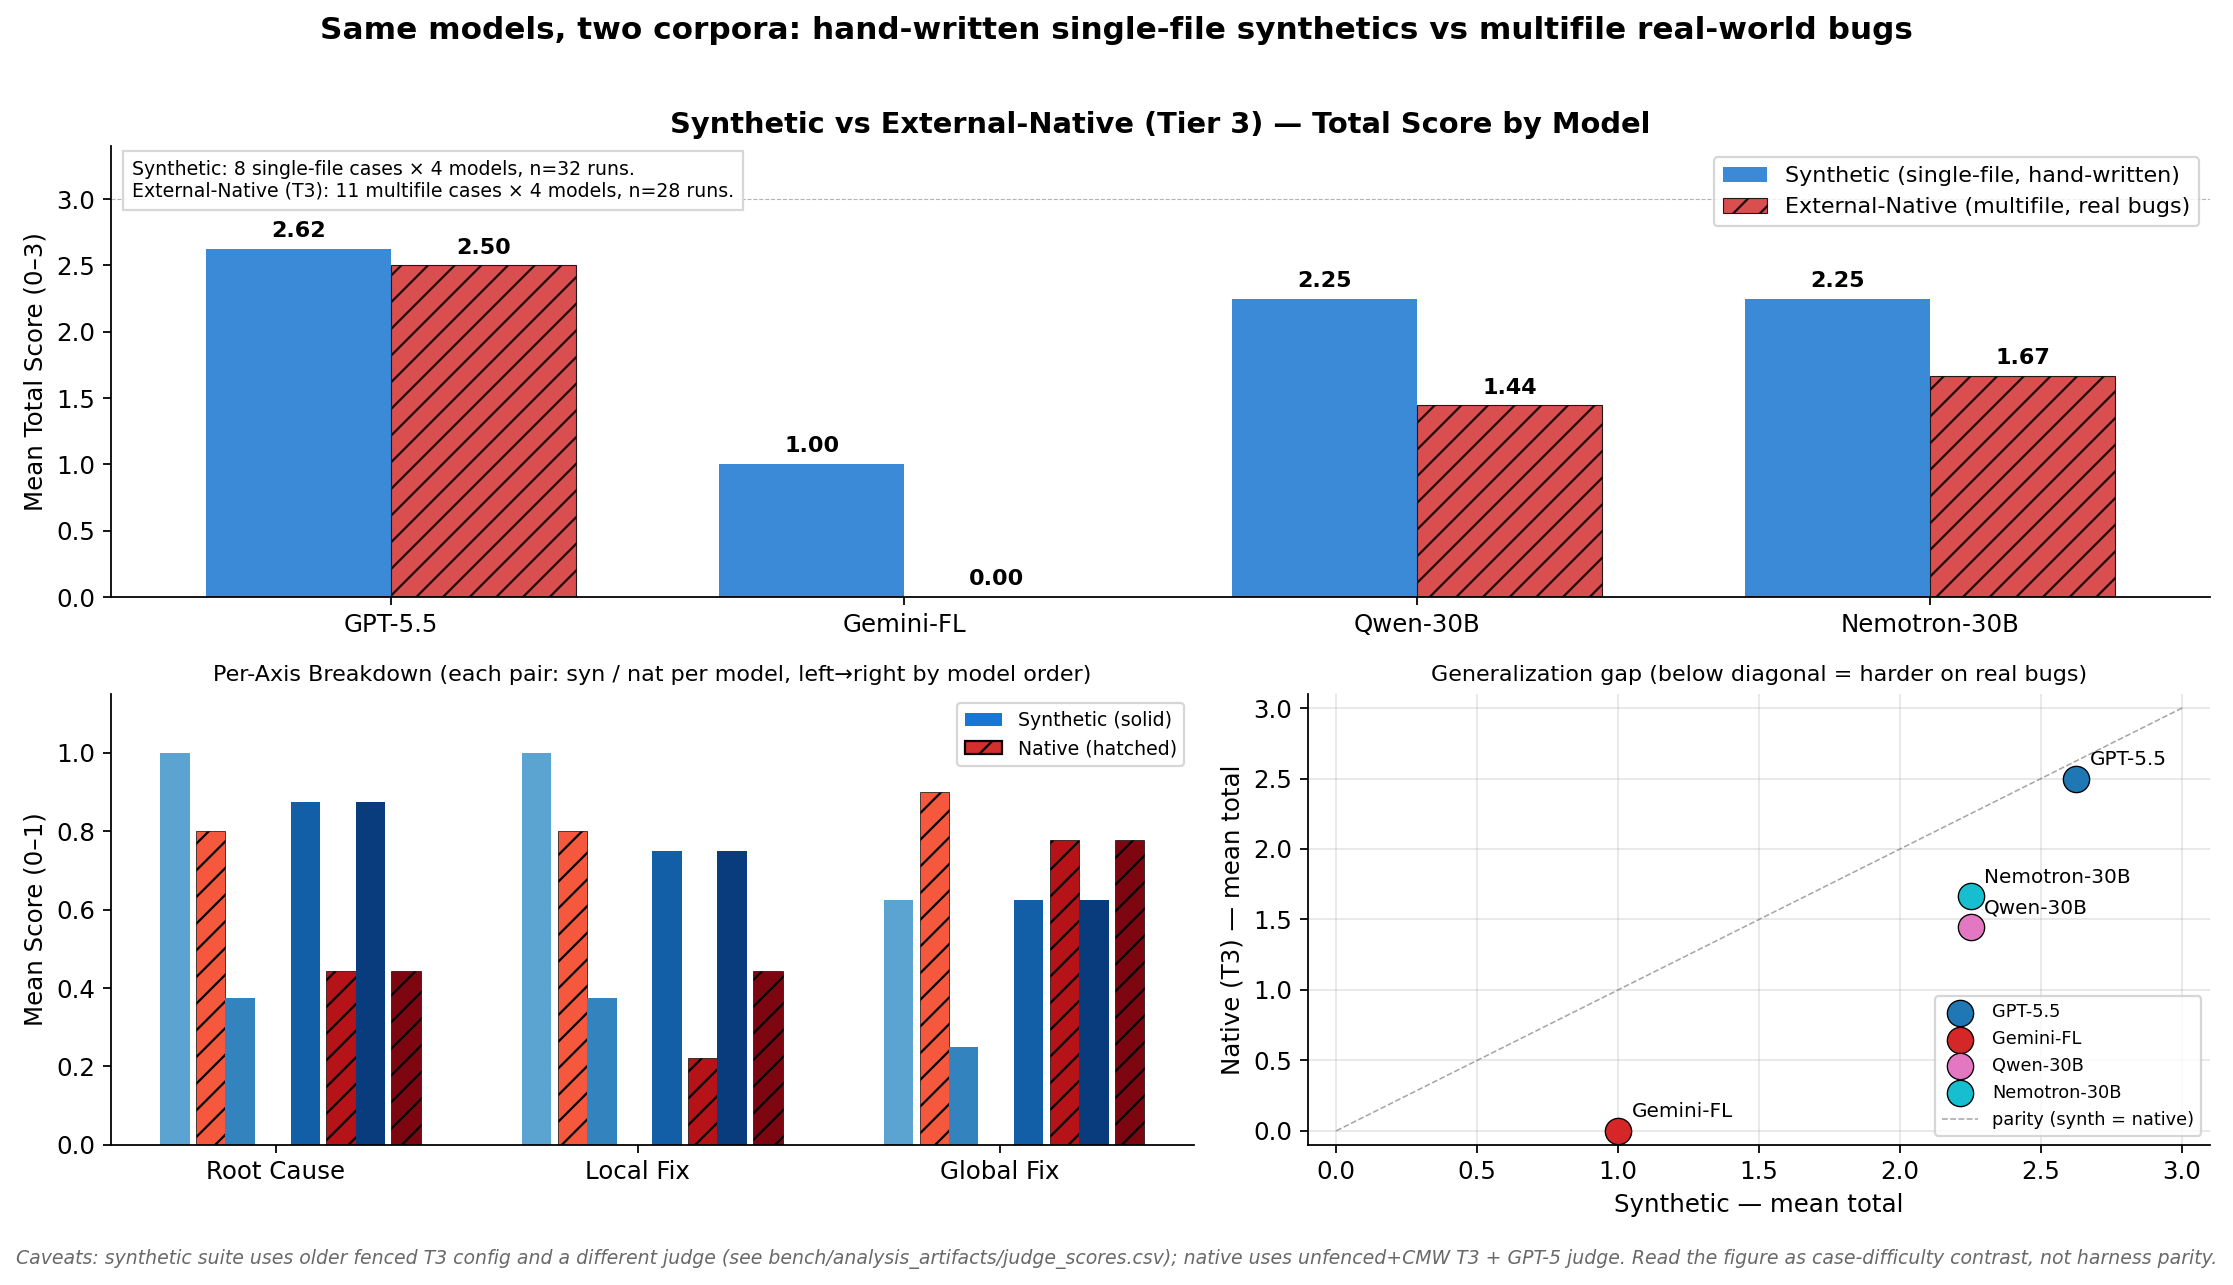
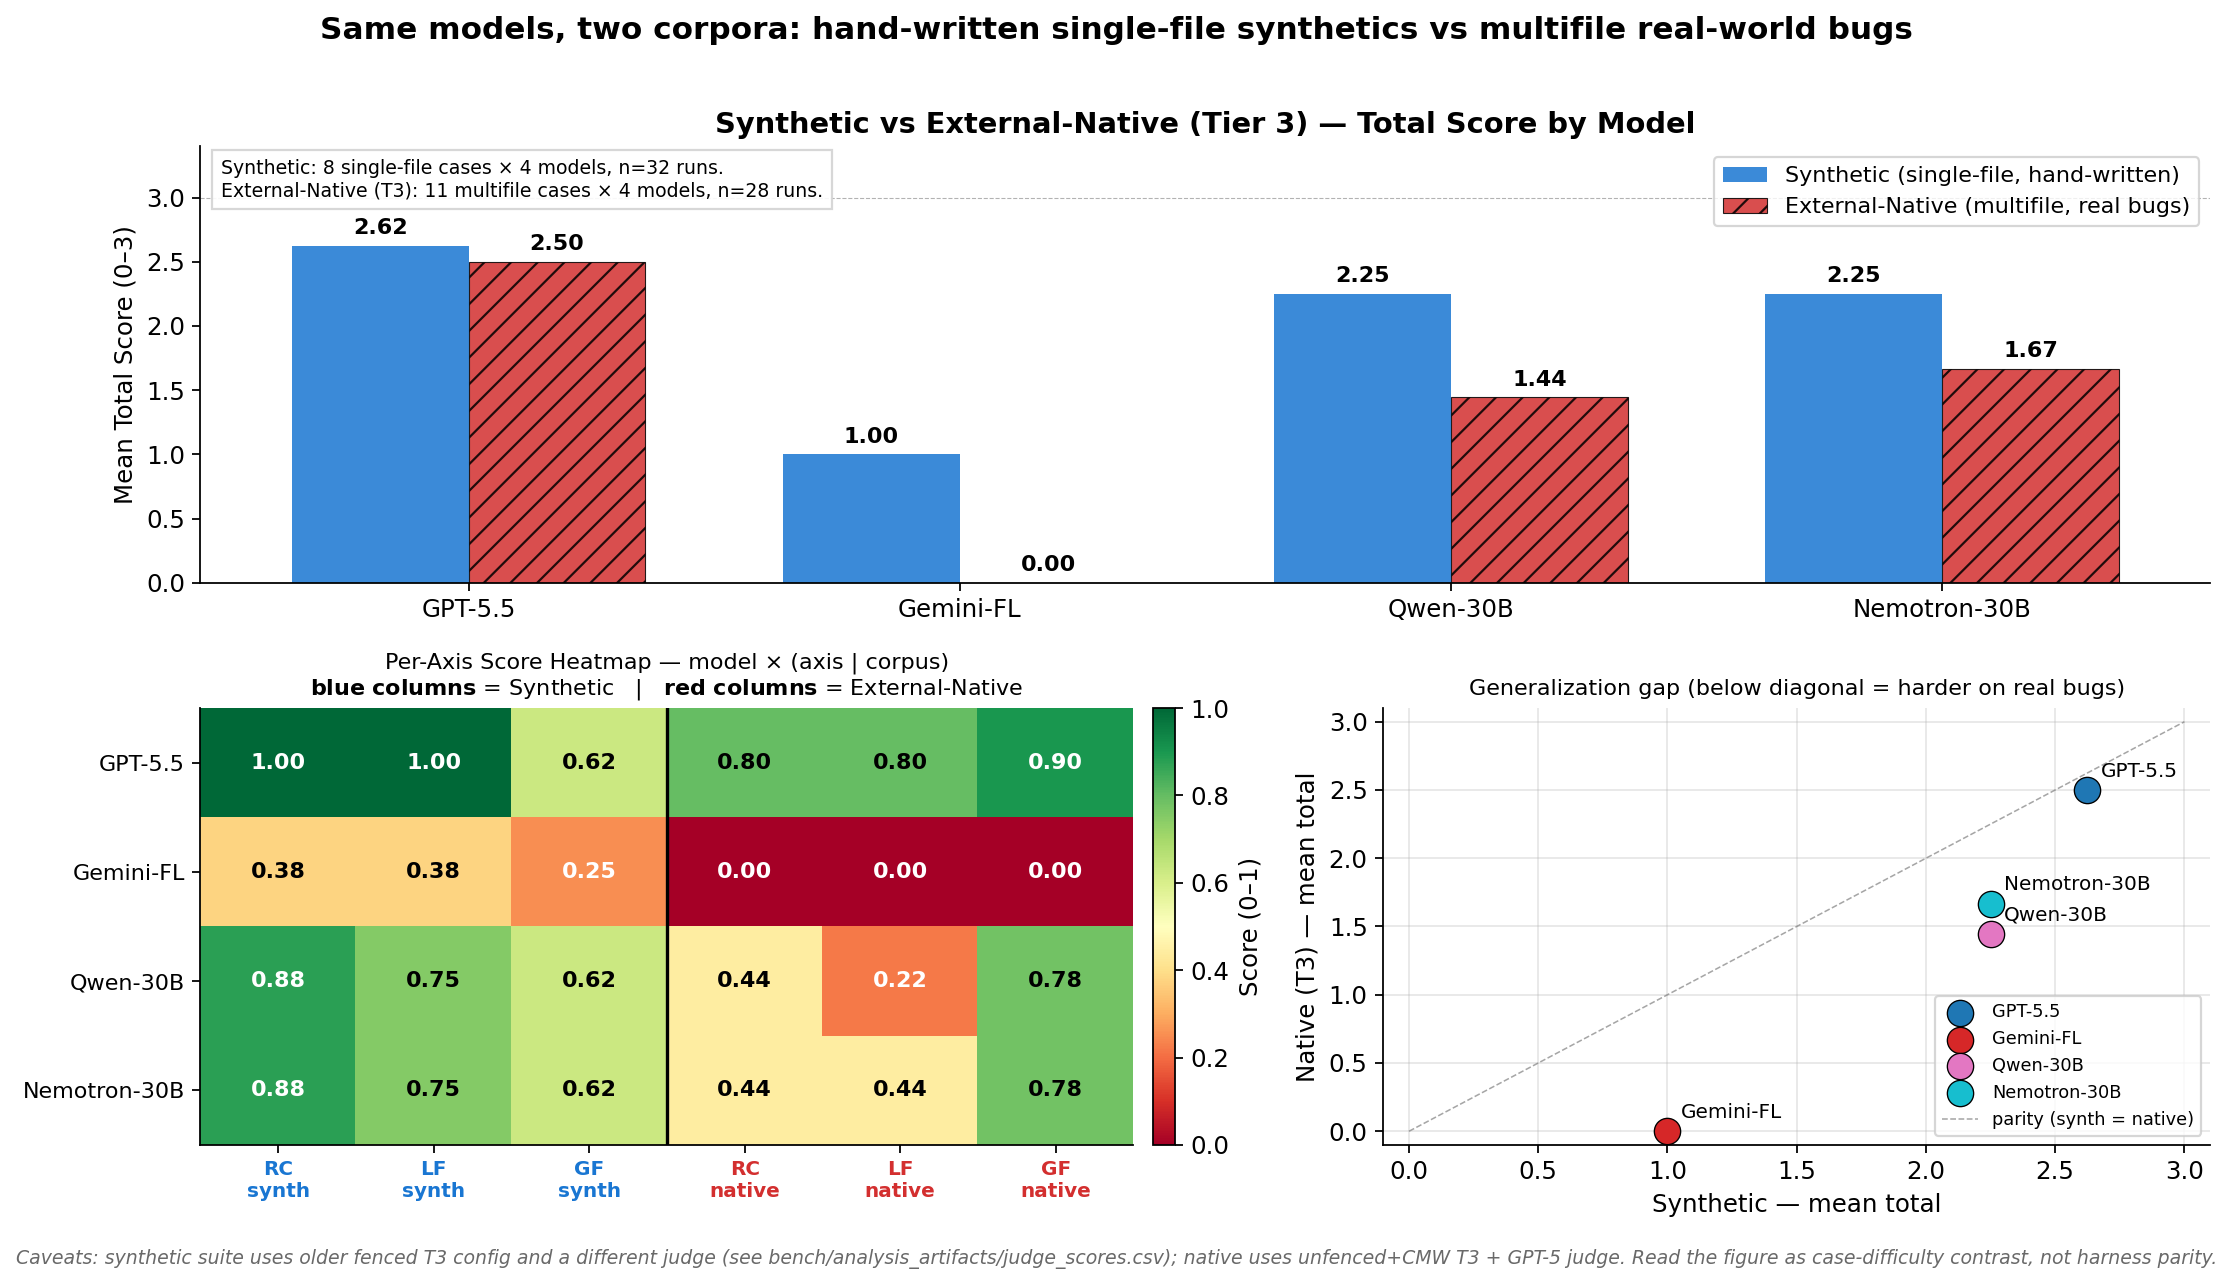
bench/figures: convert per-axis panel to RdYlGn heatmap
The bottom-left panel of synth_vs_external_native was a grouped bar
chart pairing synth/native bars per (model, axis) and was hard to
read at a glance. Replaced with a heatmap matching the format used by
generate_all.py's _heatmap helper:
  - rows: 4 shared models
  - cols: 6 (RC/LF/GF for Synthetic | RC/LF/GF for External-Native)
  - cmap: RdYlGn, vmin=0, vmax=1
  - column tick labels colored by corpus (blue = synth, red = native)
  - black vertical divider between corpus halves
  - cell text shows mean axis score to 2 decimals

Now visually consistent with synth_heatmap_t*.png, bugbench_heatmap_t*.png,
and external_heatmap_t*.png.

diff --git a/bench/figures/synth_vs_native.py b/bench/figures/synth_vs_native.py
@@ -106,37 +106,47 @@ def main() -> int:
             transform=ax.transAxes, va="top", fontsize=8.5,
             bbox=dict(facecolor="white", edgecolor="lightgray", alpha=0.9))
 
-    # ---- (2) Per-axis breakdown: RC / LF / GF ----
+    # ---- (2) Per-axis heatmap: models × (RC|LF|GF for synth | native) ----
     ax = fig.add_subplot(gs[1, 0])
-    axes_keys = [("root_cause", "Root Cause"),
-                 ("local_fix",  "Local Fix"),
-                 ("global_fix", "Global Fix")]
-    axis_x = np.arange(len(axes_keys))
-    bw = 0.18
-    cmap = plt.cm.Blues(np.linspace(0.55, 0.95, len(SHARED_MODELS)))
-    cmap2 = plt.cm.Reds(np.linspace(0.55, 0.95, len(SHARED_MODELS)))
+    axes_keys = [("root_cause", "RC"),
+                 ("local_fix",  "LF"),
+                 ("global_fix", "GF")]
+    # 4 rows (models) x 6 cols (3 axes for synth, 3 axes for native)
+    matrix = np.full((len(SHARED_MODELS), 2 * len(axes_keys)), np.nan)
     for i, m in enumerate(SHARED_MODELS):
-        offs = (i - (len(SHARED_MODELS) - 1)/2) * bw
-        syn_vals = [mean_axis(syn, m, k) for k, _ in axes_keys]
-        nat_vals = [mean_axis(nat, m, k) for k, _ in axes_keys]
-        ax.bar(axis_x + offs - bw*0.05, syn_vals, bw*0.45,
-               color=cmap[i], label=f"{m} (syn)" if i == 0 else None)
-        ax.bar(axis_x + offs + bw*0.5, nat_vals, bw*0.45,
-               color=cmap2[i], hatch="//", edgecolor="black", linewidth=0.3,
-               label=f"{m} (nat)" if i == 0 else None)
-    ax.set_xticks(axis_x)
-    ax.set_xticklabels([lbl for _, lbl in axes_keys])
-    ax.set_ylabel("Mean Score (0–1)")
-    ax.set_ylim(0, 1.15)
-    ax.set_title("Per-Axis Breakdown (each pair: syn / nat per model, left→right by model order)",
-                 fontsize=10)
+        for j, (k, _) in enumerate(axes_keys):
+            matrix[i, j]                     = mean_axis(syn, m, k)
+            matrix[i, j + len(axes_keys)]    = mean_axis(nat, m, k)
 
-    # Legend explaining the encoding
-    handles = [
-        plt.Rectangle((0,0),1,1, facecolor="#1976d2", label="Synthetic (solid)"),
-        plt.Rectangle((0,0),1,1, facecolor="#d32f2f", hatch="//", edgecolor="black", label="Native (hatched)"),
-    ]
-    ax.legend(handles=handles, loc="upper right", fontsize=8.5)
+    cmap = plt.cm.RdYlGn.copy()
+    cmap.set_bad(color="lightgray")
+    im = ax.imshow(matrix, cmap=cmap, vmin=0, vmax=1, aspect="auto")
+    col_labels = [f"{lbl}\nsynth" for _, lbl in axes_keys] + \
+                 [f"{lbl}\nnative" for _, lbl in axes_keys]
+    ax.set_xticks(range(len(col_labels)))
+    ax.set_xticklabels(col_labels, fontsize=9)
+    ax.set_yticks(range(len(SHARED_MODELS)))
+    ax.set_yticklabels(SHARED_MODELS, fontsize=10)
+    for i in range(len(SHARED_MODELS)):
+        for j in range(2 * len(axes_keys)):
+            v = matrix[i, j]
+            if np.isnan(v):
+                ax.text(j, i, "–", ha="center", va="center", fontsize=9, color="gray")
+            else:
+                color = "white" if (v <= 0.25 or v >= 0.85) else "black"
+                ax.text(j, i, f"{v:.2f}", ha="center", va="center",
+                        fontsize=10, fontweight="bold", color=color)
+    # vertical divider between synth and native halves
+    ax.axvline(x=len(axes_keys) - 0.5, color="black", lw=1.5)
+    # Color the column tick labels to encode synth (blue) vs native (red).
+    for i, lbl in enumerate(ax.get_xticklabels()):
+        lbl.set_color("#1976d2" if i < len(axes_keys) else "#d32f2f")
+        lbl.set_fontweight("bold")
+    plt.colorbar(im, ax=ax, fraction=0.04, pad=0.02, label="Score (0–1)")
+    ax.set_title(
+        "Per-Axis Score Heatmap — model × (axis | corpus)\n"
+        r"$\bf{blue\ columns}$ = Synthetic   |   $\bf{red\ columns}$ = External-Native",
+        fontsize=10)
 
     # ---- (3) Drop-off scatter: per-model synth-vs-native ----
     ax = fig.add_subplot(gs[1, 1])